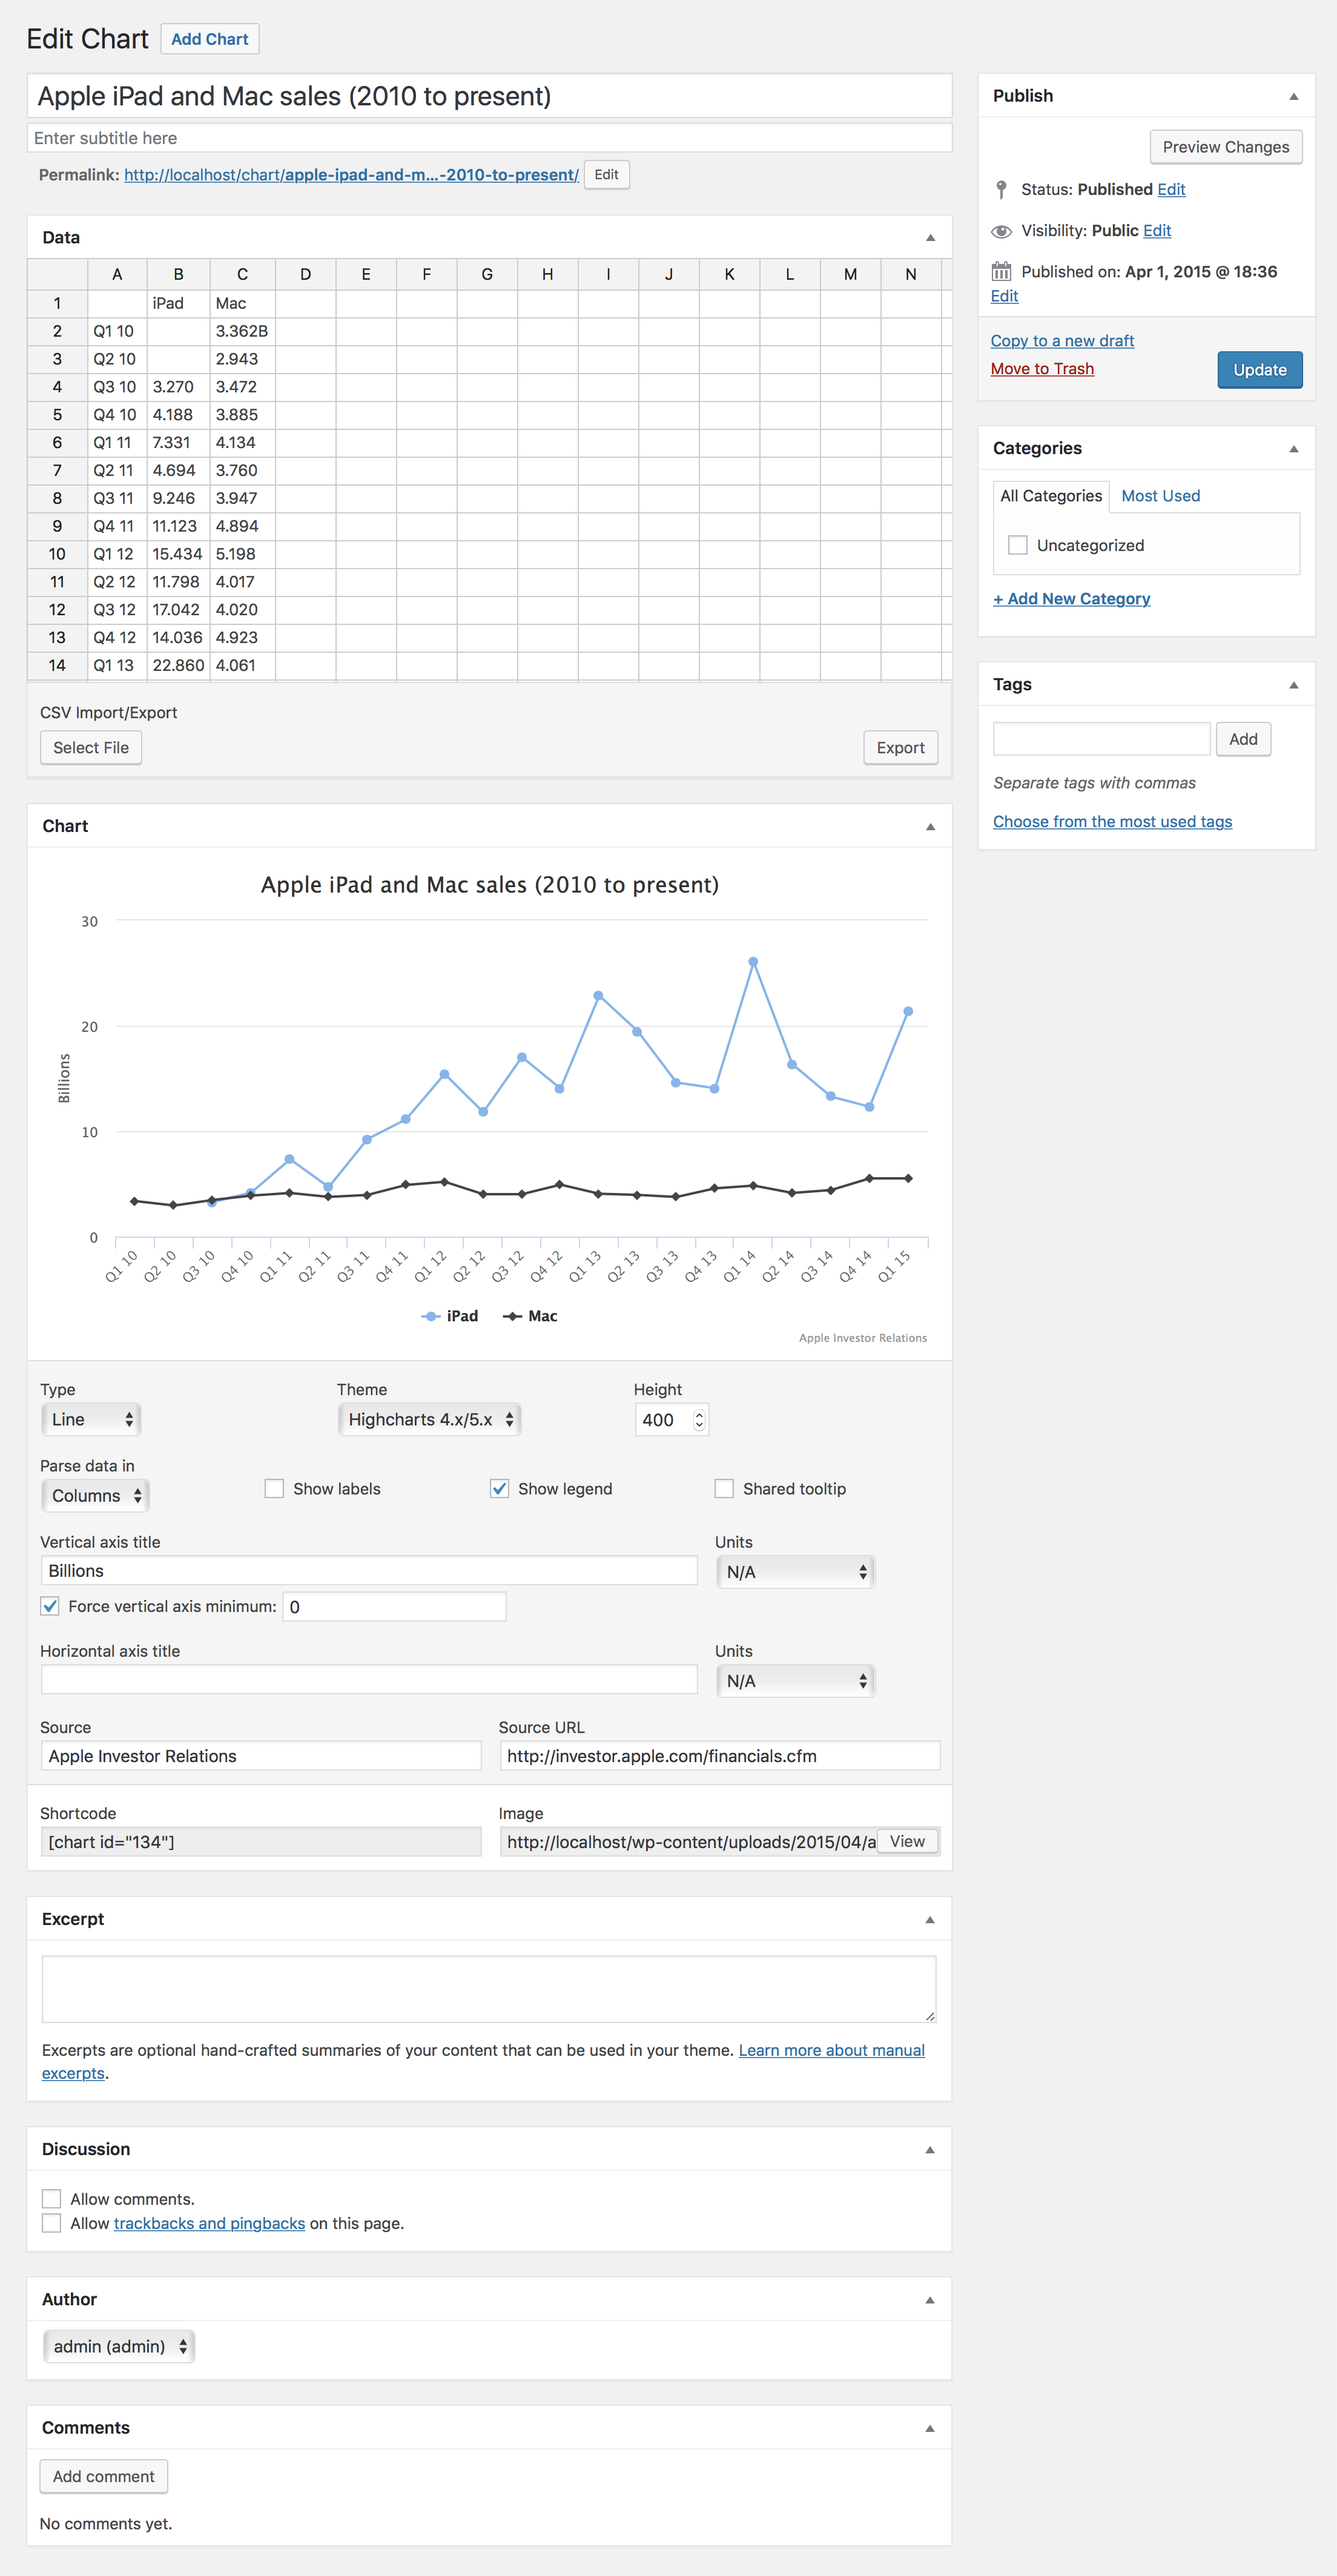
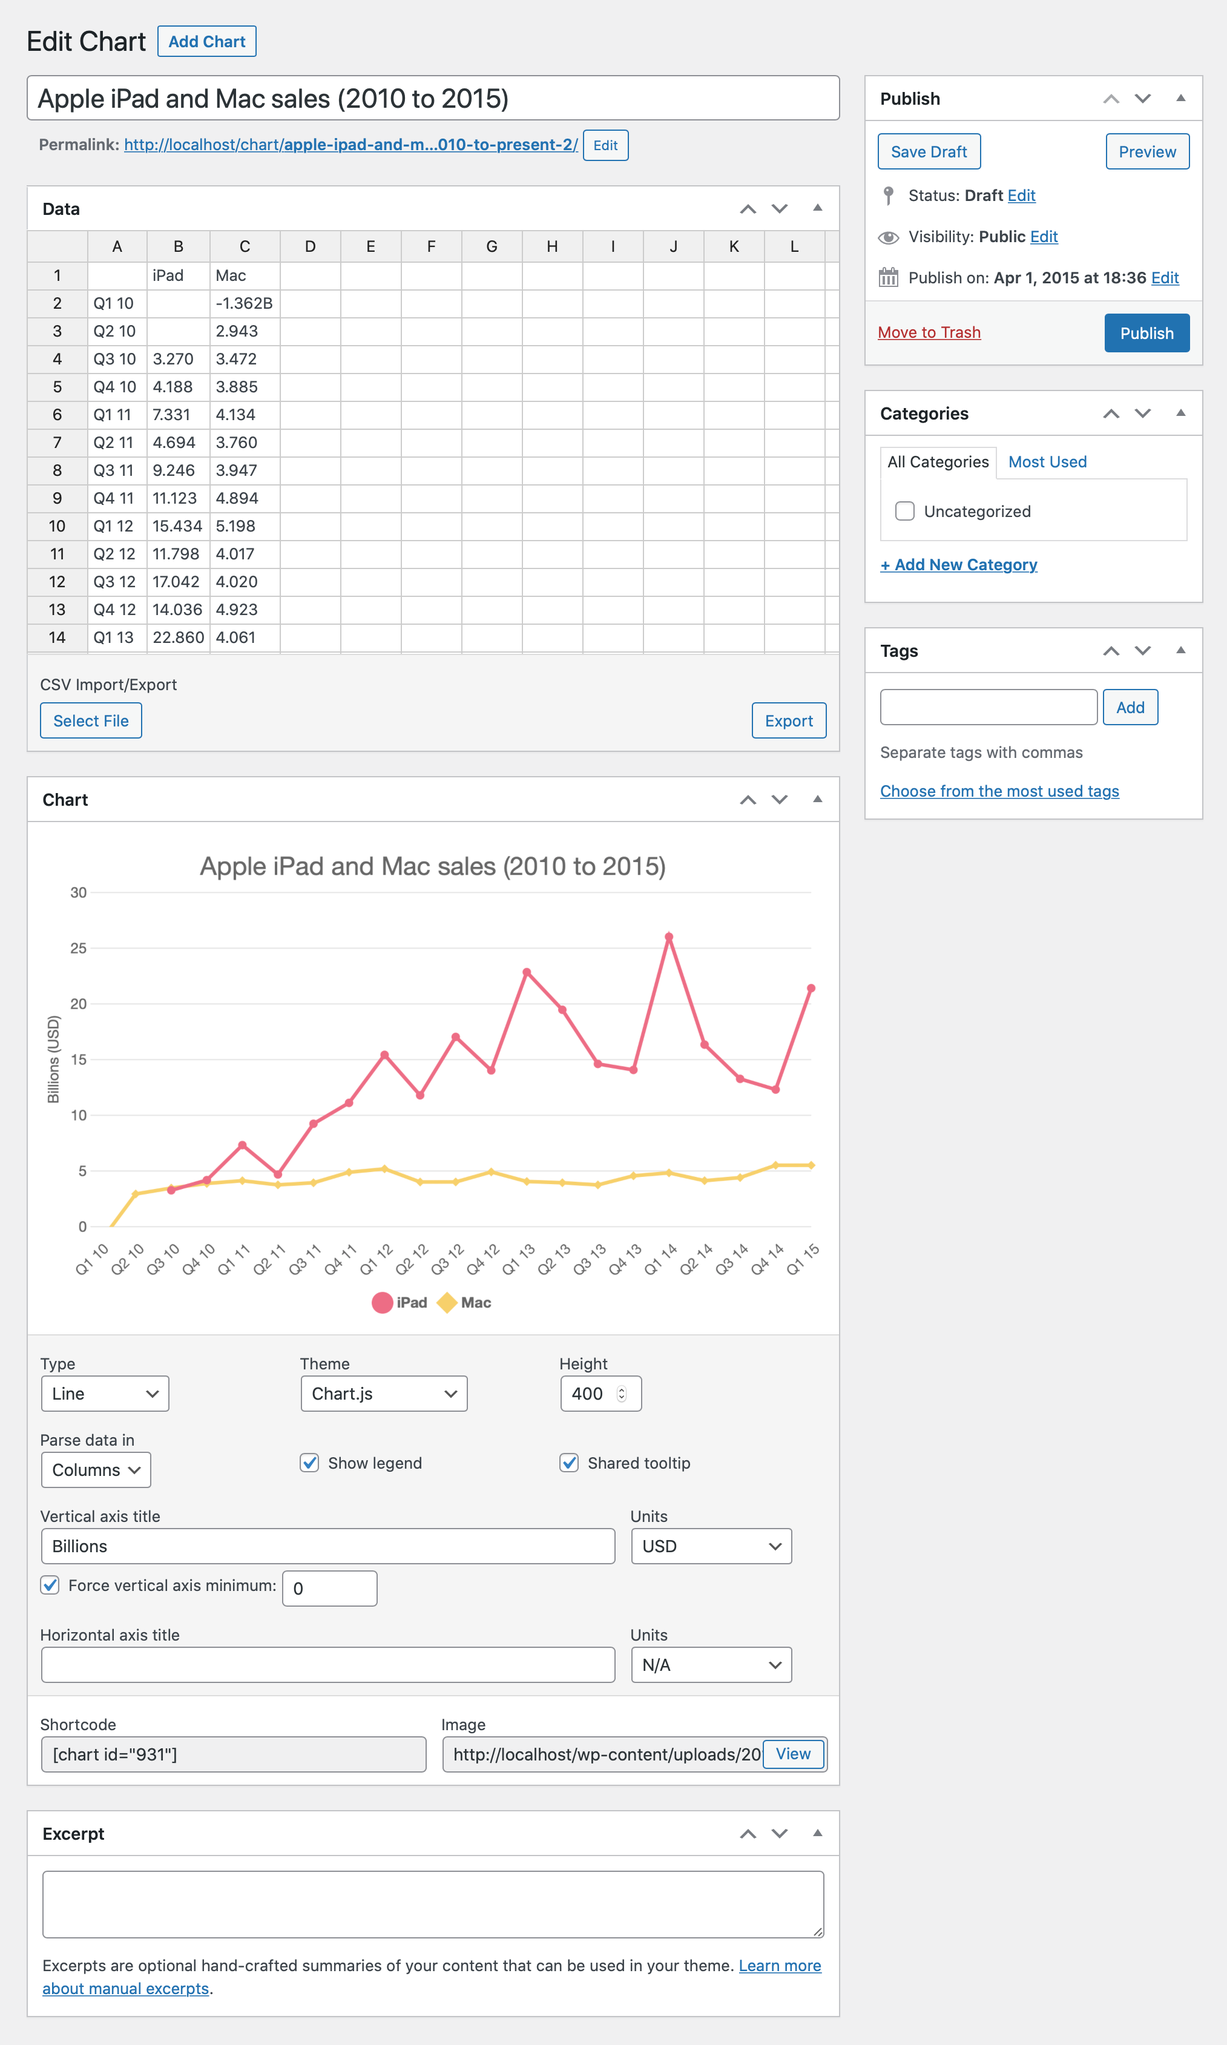
Updated screenshots.

diff --git a/components/templates/m-chart-settings.php b/components/templates/m-chart-settings.php
@@ -98,6 +98,35 @@
 					</td>
 				</tr>
 				<?php
+				if ( 'chartjs' == $settings['library'] ) {
+					?>
+					<tr>
+						<th scope="row">
+							<label for="<?php echo esc_attr( $this->get_field_id( 'default_theme' ) ); ?>">
+								<?php esc_html_e( 'Default Chart.js Theme', 'm-chart' ); ?>
+							</label>
+						</th>
+						<td>
+							<select name="<?php echo esc_attr( $this->get_field_name( 'default_theme' ) ); ?>" id="<?php echo $this->get_field_id( 'default_theme' ); ?>">
+								<?php
+								foreach ( m_chart()->library( 'chartjs' )->get_themes() as $theme ) {
+									?>
+									<option value="<?php echo esc_attr( $theme->slug ); ?>"<?php selected( $theme->slug, $settings['default_theme'] ); ?>>
+										<?php esc_html_e( $theme->name, 'm-chart' ); ?>
+									</option>
+									<?php
+								}
+								?>
+							</select>
+							<p class="description">
+								<?php esc_html_e( 'See the M Chart documentation for more info on how to use themes:', 'm-chart' ); ?>
+								<a href="https://github.com/methnen/m-chart/wiki/Themes">https://github.com/methnen/m-chart/wiki/Themes</a>
+							</p>
+						</td>
+					</tr>
+					<?php
+				}
+
 				if ( 'highcharts' == $settings['library'] ) {
 					?>
 					<tr>
